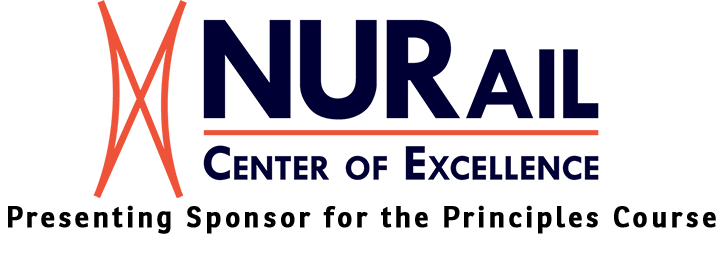
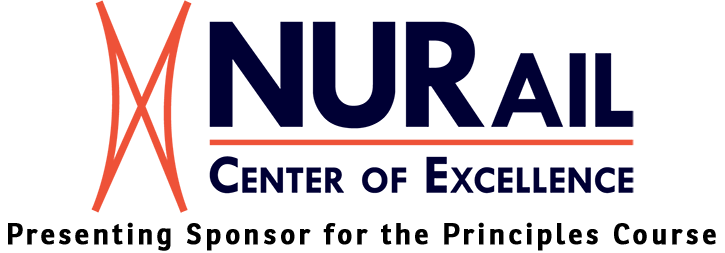
header stacking working

Changed region(s): [[0.0, 0.0, 1.0, 0.996], [0.1214, 0.0, 0.1821, 0.1937]]

diff --git a/src/components/header/index.js b/src/components/header/index.js
@@ -6,8 +6,70 @@ const Header = () => {
   return (
     <header className="bg-white shadow sm:pb-8">
       <div className="container px-4 mx-auto">
-        <div className="flex items-center justify-between">
-          <div className="flex items-center">
+
+        {/* 1) Desktop/Tablet layout (≥ sm): single row, hidden on mobile */}
+        <div className="items-end justify-between hidden sm:flex">
+          
+          {/* Left sponsor */}
+          <div className="flex items-end">
+            <a
+              href="https://www.nurailcenter.org/"
+              target="_blank"
+              rel="noopener noreferrer"
+            >
+              {/* On tablets (≥sm <md) => w-[160px], on desktop (≥md) => w-[258px] */}
+              <img
+                src="/NuRail_Presenting_Sponsor_2025.png"
+                alt="NuRail Logo"
+                style={{ display: 'block' }}
+                className="
+                  h-auto
+                  sm:w-[160px]
+                  md:w-[175px]
+                  lg:w-[258px]
+                "
+              />
+            </a>
+          </div>
+
+          {/* Center animation */}
+          <div className="flex items-end justify-center flex-grow">
+            {/* Removed lg:mt-12 to keep the bottom aligned with the logos */}
+            <Animation />
+          </div>
+
+          {/* Right sponsor */}
+          <div className="flex items-end">
+            <a
+              href="https://www.rtands.com/"
+              target="_blank"
+              rel="noopener noreferrer"
+            >
+              {/* On tablets (≥sm <md) => w-[140px], on desktop (≥md) => w-[217px] */}
+              <img
+                src="/RTS_Presenting_Sponsor_2025.png"
+                alt="RT&S Logo"
+                style={{ display: 'block' }}
+                className="
+                  h-auto
+                  sm:w-[140px]
+                  md:w-[150px]
+                  lg:w-[217px]
+                "
+              />
+            </a>
+          </div>
+        </div>
+
+        {/* 2) Mobile layout (< sm): unchanged */}
+        <div className="flex flex-col items-center w-full sm:hidden">
+          {/* Animation on its own line */}
+          <div className="flex justify-center w-full mt-4">
+            <Animation />
+          </div>
+
+          {/* Two logos side by side, bottom-aligned */}
+          <div className="flex items-end justify-around w-full mt-4">
             <a
               href="https://www.nurailcenter.org/"
               target="_blank"
@@ -15,32 +77,27 @@ const Header = () => {
             >
               <img
                 src="/NuRail_Presenting_Sponsor_2025.png"
-                width={258}
-                height={75}
                 alt="NuRail Logo"
-                style={{ display: 'block' }} // Ensure images don't reformat
+                style={{ display: 'block' }}
+                className="w-[140px] h-auto"
               />
             </a>
-          </div>
-          <div className="flex items-center justify-center flex-grow mt-12">
-            <Animation />
-          </div>
-          <div className="flex items-center">
             <a
               href="https://www.rtands.com/"
               target="_blank"
               rel="noopener noreferrer"
+              className="relative top-[-1px]"
             >
               <img
                 src="/RTS_Presenting_Sponsor_2025.png"
-                width={217}
-                height={75}
                 alt="RT&S Logo"
-                style={{ display: 'block' }} // Ensure images don't reformat
+                style={{ display: 'block' }}
+                className="w-[115px] h-auto"
               />
             </a>
           </div>
         </div>
+
       </div>
     </header>
   );
